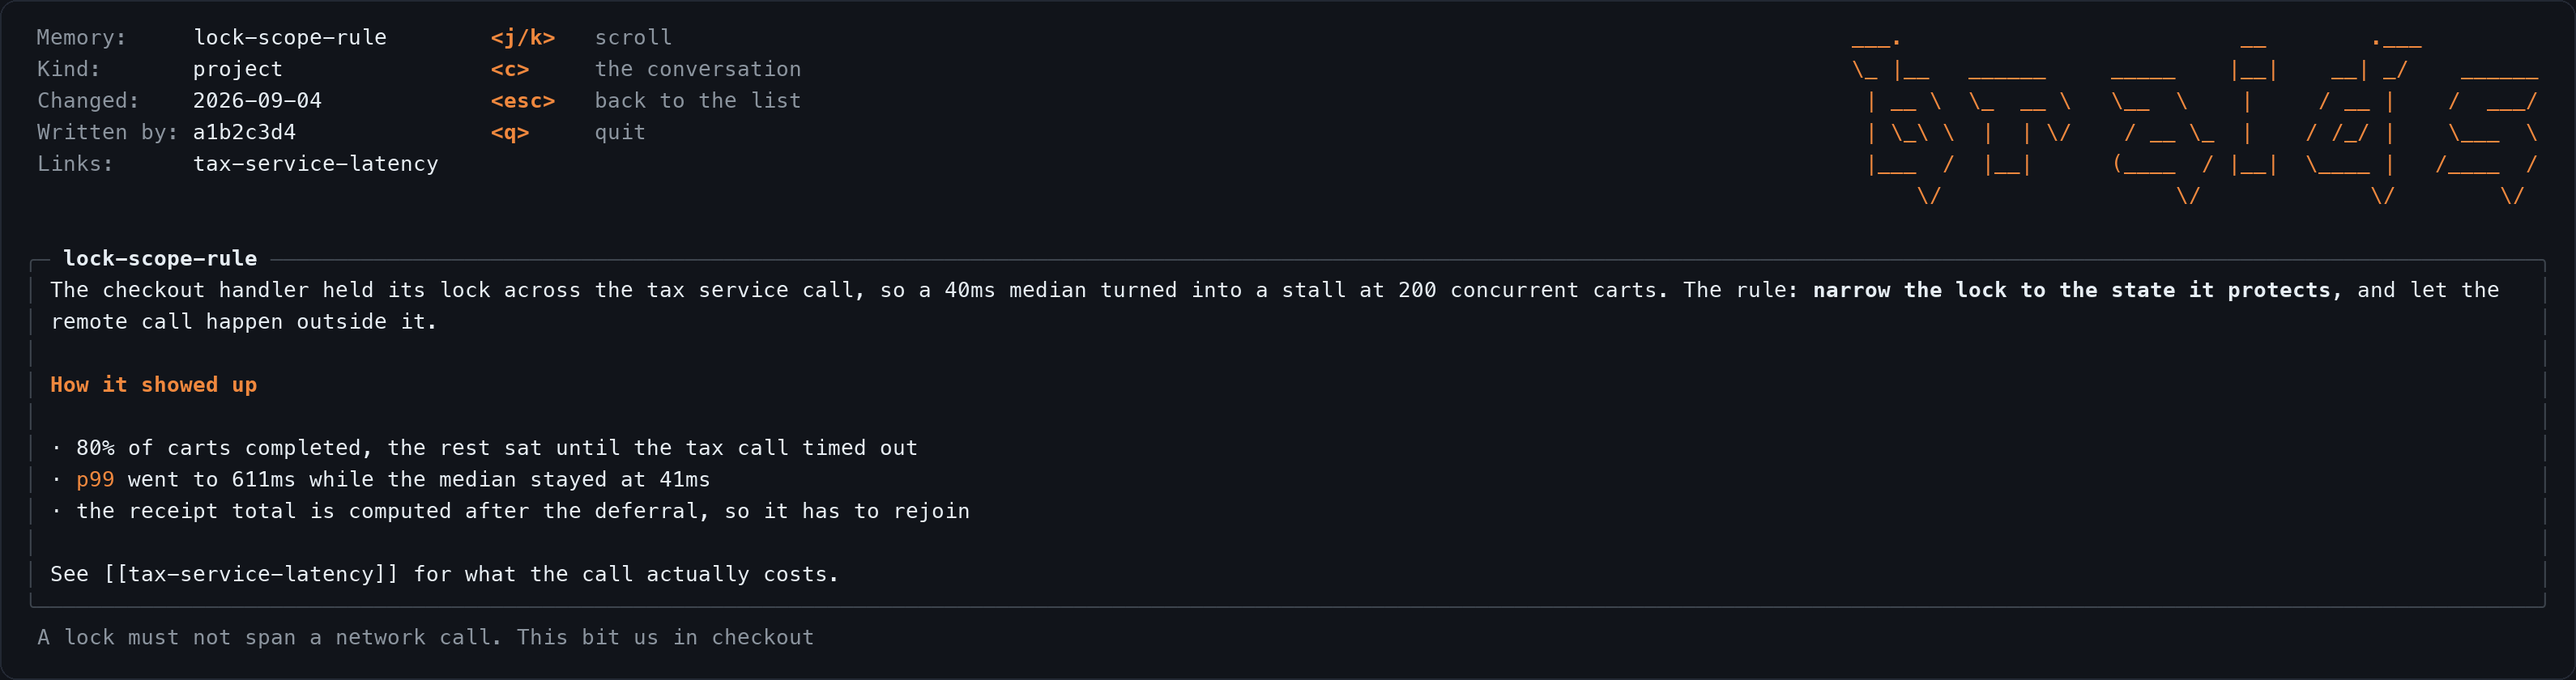
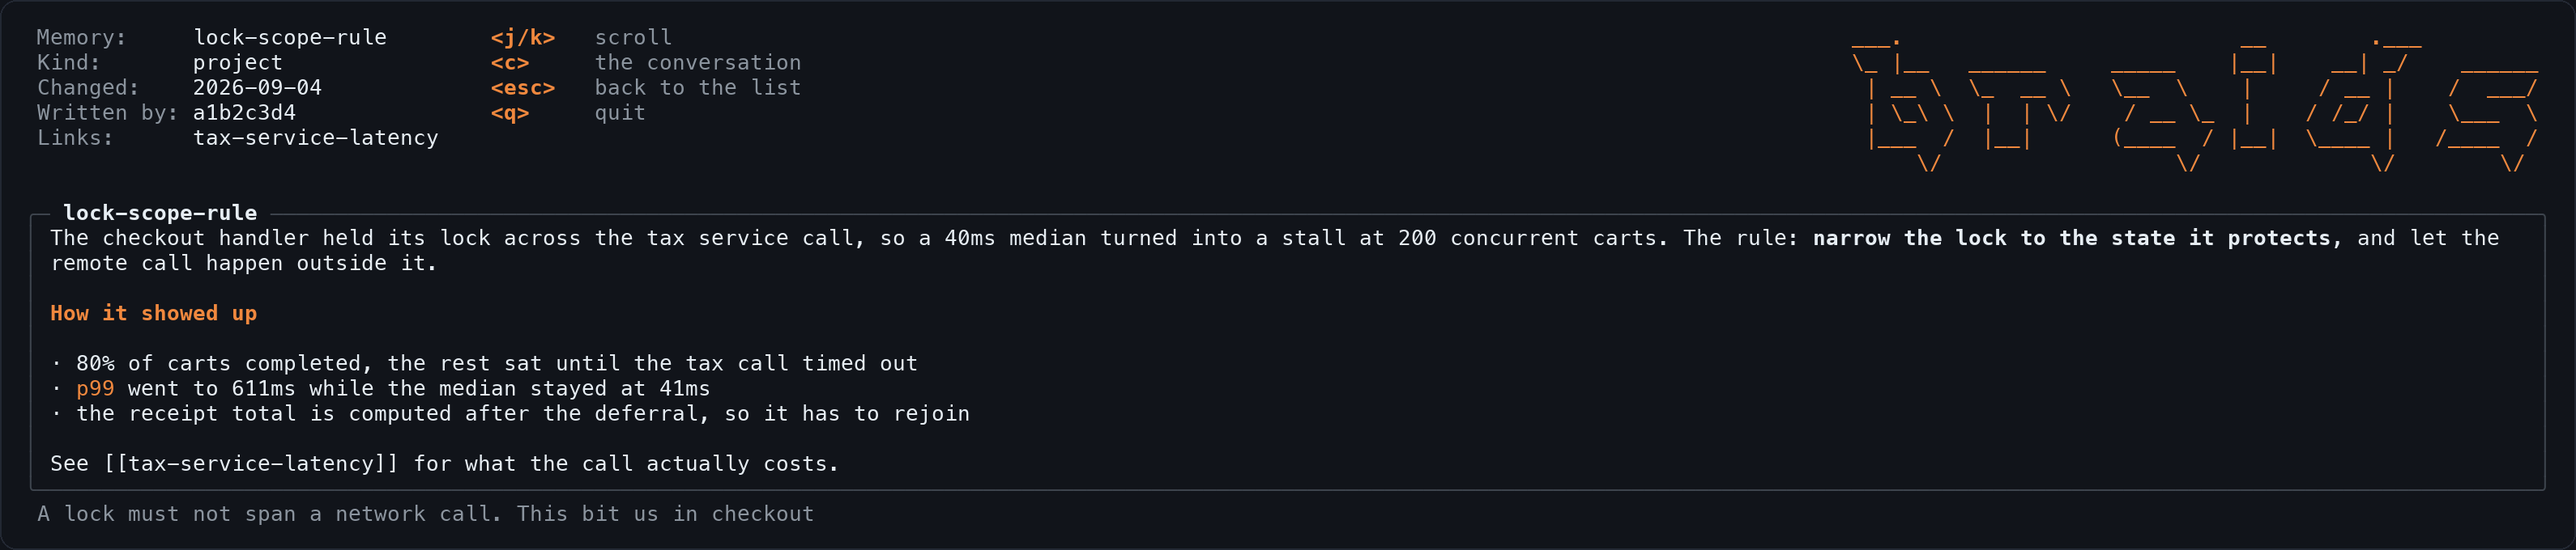
Close the gap between rows, keep frames out of the sidebar, follow the reader
The screens looked misaligned because they were drawn with a line height
of 1.5. A terminal has no leading between rows and braids draws boxes, so
every vertical rule stopped touching the one below it and each panel
border read as a dashed line. The HTML was right all along: 195
characters a line, borders and corners present. Frames are 1.15 now, and
the PNGs 1.18 of the font size, which is where the glyphs meet.

On a docs page the frame broke out to the width of the window, the way it
does on the landing page, and landed on top of the sidebar. Inside the
docs it stays in its column, and the font size now comes from 100cqw,
which is the figure itself rather than the window, so one rule is right
in both layouts. The docs page is wider to give a 195 column frame
somewhere to go, with prose still capped at 72 characters.

The sidebar follows the reader: thirty lines of inline script mark the
heading you are on, because a docs page that fetches a library to
underline a heading is a page that phones home to underline a heading.
The docs home also lists every page now, rather than being a page that
mentions the others in passing.

Repo, while I was in here. Dropped an icon size nothing referenced and an
`open_span` variable that was tracked, never read, and deleted at the end
of the function to keep the linter quiet, plus a `plain` argument no
caller passed. A leftover FRAME_COLS placeholder was still sitting in a
[…]

diff --git a/site/docs.py b/site/docs.py
@@ -24,8 +24,15 @@ OUT = HERE / "docs"
 HOME = "/"
 
 DOCS_CSS = CSS + """
-/* ---- docs layout ---- */
-.docs { display:grid; grid-template-columns:216px minmax(0,1fr); gap:44px; padding:38px 0 72px; }
+/* ---- docs layout ----
+   Wider than the landing page, because a frame is 195 columns and the sidebar
+   takes 224 of the window before the article gets any. */
+.wrap.wide { max-width:1440px; }
+.docs { display:grid; grid-template-columns:224px minmax(0,1fr); gap:48px; padding:38px 0 72px; }
+/* A frame breaks out of the prose column on the landing page. Here that would
+   put it on top of the sidebar, so inside the docs it stays in its column and
+   sizes itself from that instead. */
+.docs figure.frame { width:auto; margin-left:0; transform:none; }
 .side { position:sticky; top:78px; align-self:start; max-height:calc(100vh - 100px); overflow-y:auto; }
 .side h6 {
   margin:0 0 8px; font-family:var(--mono); font-size:11px; font-weight:500;
@@ -39,6 +46,17 @@ DOCS_CSS = CSS + """
 .side .group { margin-bottom:24px; }
 .side .onthis a { font-size:13.5px; color:var(--faint); }
 .side .onthis a:hover { color:var(--ink); }
+.side .onthis a.here { color:var(--accent); border-left-color:var(--accent); }
+
+/* ---- the docs index ---- */
+.cards { display:grid; grid-template-columns:repeat(auto-fit,minmax(240px,1fr)); gap:18px; margin:26px 0 0; }
+.cards a {
+  border:1px solid var(--line); border-radius:11px; padding:16px 18px;
+  background:var(--panel); color:var(--ink);
+}
+.cards a:hover { border-color:var(--faint); text-decoration:none; }
+.cards a b { display:block; font-size:15.5px; margin-bottom:5px; }
+.cards a span { color:var(--dim); font-size:14px; }
 
 article h1 { font-size:clamp(26px,3.4vw,36px); margin:0 0 8px; letter-spacing:-.02em; }
 article > p.lede { font-size:17px; margin:0 0 6px; }
@@ -214,6 +232,10 @@ braids search anything --db /nope/absent.db
   lists every key that screen takes, and the glyph key next to it names every
   mark on the screen.
 </p>
+
+<h2 id="pages">Everything else</h2>
+<p class="sub">Nine more pages, in the order they make sense in.</p>
+{{INDEX_CARDS}}
 
 <h2 id="where">Where things live</h2>
 {table(["Path", "What it is", "Who owns it"], [
@@ -931,6 +953,14 @@ PAGES = [
 HEADING = re.compile(r'<h2 id="([^"]+)">(.*?)</h2>', re.S)
 
 
+def index_cards() -> str:
+    """Every page but the first, as cards on the docs home."""
+    out = ""
+    for slug, label, _, description, _ in PAGES[1:]:
+        out += f'<a href="/docs/{slug}/"><b>{label}</b><span>{description}</span></a>'
+    return f'<div class="cards">{out}</div>'
+
+
 def sidebar(active: str, body: str) -> str:
     """Every page, plus the headings of the one you are on."""
     pages = ""
@@ -960,15 +990,57 @@ def pager(index: int) -> str:
     return f'<div class="pager">{out}</div>' if out else ""
 
 
+# SPY keeps the sidebar in step with the reader. Written out rather than
+# pulled in, because a docs page that fetches a library to underline a heading
+# is a page that phones home to underline a heading.
+SPY = """
+<script>
+(function () {
+  var heads = [].slice.call(document.querySelectorAll('article h2[id]'));
+  var links = {};
+  [].slice.call(document.querySelectorAll('.onthis a')).forEach(function (a) {
+    links[a.getAttribute('href').slice(1)] = a;
+  });
+  if (!heads.length) { return; }
+  var queued = false;
+  function update() {
+    queued = false;
+    // The heading nearest above the top of the window, which is the one you
+    // are reading. The last one wins outright at the bottom of the page,
+    // where nothing new can come into view.
+    var current = heads[0].id;
+    heads.forEach(function (h) {
+      if (h.getBoundingClientRect().top <= 120) { current = h.id; }
+    });
+    if (window.innerHeight + window.scrollY >= document.body.scrollHeight - 4) {
+      current = heads[heads.length - 1].id;
+    }
+    Object.keys(links).forEach(function (id) {
+      links[id].classList.toggle('here', id === current);
+    });
+  }
+  function queue() {
+    if (!queued) { queued = true; requestAnimationFrame(update); }
+  }
+  window.addEventListener('scroll', queue, { passive: true });
+  window.addEventListener('resize', queue);
+  update();
+})();
+</script>
+"""
+
+
 def build() -> None:
     for i, (slug, label, title, description, body) in enumerate(PAGES):
+        body = body.replace("{INDEX_CARDS}", index_cards())
         html_body = (
             nav(HOME, active="/docs/")
-            + '<div class="wrap"><div class="docs">'
+            + '<div class="wrap wide"><div class="docs">'
             + sidebar(slug, body)
             + f"<article>{body}{pager(i)}</article>"
             + "</div></div>"
             + footer(HOME)
+            + SPY
         )
         out = OUT / slug / "index.html" if slug else OUT / "index.html"
         out.parent.mkdir(parents=True, exist_ok=True)

diff --git a/site/chrome.py b/site/chrome.py
@@ -50,10 +50,8 @@ def ansi_to_html(text: str) -> str:
     of leaking escape codes into the page.
     """
     out, style, pos = [], {}, 0
-    open_span = False
 
     def push(chunk: str) -> None:
-        nonlocal open_span
         if not chunk:
             return
         css = ""
@@ -67,7 +65,6 @@ def ansi_to_html(text: str) -> str:
             css += "opacity:.62;"
         if css:
             out.append(f'<span style="{css}">{html.escape(chunk)}</span>')
-            open_span = True
         else:
             out.append(html.escape(chunk))
 
@@ -102,12 +99,10 @@ def ansi_to_html(text: str) -> str:
                     i += 2
             i += 1
     push(text[pos:])
-    del open_span
     return "".join(out)
 
 
-def frame(name: str, caption: str = "", cmd: str = "", then: str = "",
-          plain: bool = False) -> str:
+def frame(name: str, caption: str = "", cmd: str = "", then: str = "") -> str:
     """A verbatim braids screenshot, as produced by scripts/demo.py.
 
     The .ans capture keeps braids' colours; .txt is the same frame with the
@@ -116,7 +111,7 @@ def frame(name: str, caption: str = "", cmd: str = "", then: str = "",
     know and the one thing a screenshot cannot show.
     """
     coloured = FRAMES / f"{name}.ans"
-    if coloured.exists() and not plain:
+    if coloured.exists():
         body = ansi_to_html(coloured.read_text().rstrip("\n"))
     else:
         body = html.escape((FRAMES / f"{name}.txt").read_text().rstrip("\n"))
@@ -336,6 +331,8 @@ p.sub { color:var(--dim); margin-top:0; }
 figure.frame {
   margin:26px 0 0; width:min(1400px, calc(100vw - 40px));
   margin-left:50%; transform:translateX(-50%);
+  /* So the size above is worked out from this box rather than the window. */
+  container-type:inline-size;
 }
 figure.frame .shell {
   background:var(--panel); border:1px solid var(--line); border-radius:11px;
@@ -352,15 +349,21 @@ figure.frame .cmdbar b { color:var(--ink); font-weight:600; }
 figure.frame .cmdbar .then { color:var(--faint); }
 figure.frame .cmdbar kbd { font-size:11px; padding:0 5px; }
 figure.frame pre {
-  font-family:var(--mono); line-height:1.5; margin:0;
+  font-family:var(--mono); margin:0;
   padding:15px 16px; overflow-x:auto; color:var(--ink);
   -webkit-overflow-scrolling:touch;
-  /* A frame is exactly FRAME_COLS columns wide and it has to fit the box, or
-     the panel border falls off the right-hand edge. One column is 0.6em in
-     every face in --mono, so the size is derived from the width the figure
-     actually gets rather than guessed at and then clamped. The divisor carries
-     a little slack for faces that run slightly wider. */
+  /* A terminal has no gap between its rows, and braids draws boxes. At 1.5
+     the vertical rules stop touching and every panel border reads as a dashed
+     line, which is what "the screens look misaligned" turned out to mean. */
+  line-height:1.15;
+  /* A frame is 195 columns and has to fit its box, or the panel border
+     scrolls off the right. One column is 0.6em in every face in --mono, so
+     the size comes from the width the figure actually gets. The first value
+     is the fallback for browsers without container queries; the second is
+     exact, because 100cqw is this figure, which inside the docs layout is not
+     the window. */
   font-size:min(11.5px, calc((min(1400px, 100vw - 40px) - 34px) / 121));
+  font-size:min(11.5px, calc((100cqw - 34px) / 121));
 }
 @media (max-width:700px) {
   /* On a phone 195 columns cannot both fit and be legible. Pick legible and

diff --git a/scripts/ansi2png.py b/scripts/ansi2png.py
@@ -75,7 +75,9 @@ def convert(ans: str) -> Image.Image:
     regular = ImageFont.truetype(FACE, SIZE, index=0)
     bold = ImageFont.truetype(FACE, SIZE, index=1)
     advance = regular.getlength("M")
-    step = round(SIZE * 1.5)
+    # No leading between rows: a terminal has none, and braids draws boxes.
+    # Any gap turns every vertical rule into a dashed line.
+    step = round(SIZE * 1.18)
 
     cols = max((len(SGR.sub("", line)) for line in lines), default=0)
     width = round(cols * advance + 2 * PAD)

diff --git a/site/build.py b/site/build.py
@@ -6,7 +6,7 @@ fake ~/.claude, then pasted in verbatim. A hand-drawn mockup drifts from the
 program the moment either changes, and a frame whose borders do not line up is
 the first thing a reader notices.
 
-    python3 scripts/demo.py --out /tmp/braids-demo --frames site/frames --width 88
+    make frames   # recapture every screen, then redraw the README PNGs
     python3 site/build.py
 """
 

diff --git a/CONTRIBUTING.md b/CONTRIBUTING.md
@@ -7,7 +7,7 @@ a change merged is to know which of those two you are up against.
 
 ```sh
 git clone https://github.com/Ashes47/braids && cd braids
-make ci        # fmt, vet, lint, test, race, cover — the same gate CI runs
+make ci        # fmt, vet, lint, test, race, cover: the same gate CI runs
 make run       # build and open the map against your own ~/.claude
 ```
 
@@ -19,7 +19,7 @@ is green, your push is green.
 
 Some of these look like missing features and are decisions. Please read them
 before proposing one of them, and please do argue if you think a decision is
-wrong — with a case, not a patch.
+wrong, with a case rather than a patch.
 
 - **braids never talks to a model.** It arranges the conversations you have
   with a harness. No proxying, no wrapping, no protocol of its own.
@@ -30,7 +30,7 @@ wrong — with a case, not a patch.
   harness already wrote. Delete braids and you lose a view, never a
   conversation.
 - **One writer per file, always.** braids writes its own files. Where it edits
-  a harness file — the memory index — it does so atomically, keeps the mode it
+  a harness file, the memory index, it does so atomically, keeps the mode it
   found, and refuses while a session in that project is running.
 - **Deletion is recoverable.** Everything braids deletes goes to a bin with a
   manifest and a retention window.
@@ -64,6 +64,8 @@ internal/core/memory  reading and curating what a project remembers
 internal/core/…       artifacts, hooks, trash, sidecar, watch
 internal/tui          the screens
 internal/brand        the ASCII mark, so the CLI and the TUI agree on it
+scripts/              the tooling: the demo corpus, the screenshots, the PNGs
+site/                 braids.chat and its docs, generated from the frames
 ```
 
 `internal/core` knows nothing about the terminal, and nothing in `core` imports
@@ -71,12 +73,44 @@ internal/brand        the ASCII mark, so the CLI and the TUI agree on it
 with optional capability interfaces, so one that cannot branch still gets the
 map and search.
 
+## Screenshots and the site
+
+Every screenshot in the README and on braids.chat is real braids output. None
+of it is drawn by hand, because a hand-drawn frame drifts from the program the
+moment either changes, and a box whose borders do not line up is the first
+thing a reader notices.
+
+```sh
+make frames   # rebuild the captures and the PNGs (needs the binary)
+make pages    # regenerate the landing page and the docs from those captures
+make site     # both, then serve it on http://localhost:8787
+```
+
+`scripts/demo.py` writes a fake `~/.claude` under `/tmp`, indexes it, and
+captures each screen at 195 columns, which is the width where the header draws
+the facts, the glyph key, every binding and the full mark. It never reads your
+own transcripts. Frames land in `site/frames` as `.ans`, which keeps braids'
+colours, and `.txt`, which is the same frame with the escapes removed so a diff
+is readable.
+
+The map, a spine and search come from `braids --print`. The other screens are
+reached with keys, and braids does not have a flag for them, so
+`scripts/shots` presses the keys instead: it drives the same router and the
+same `View` the running program does. It is a tool, not part of the binary.
+
+`scripts/ansi2png.py` redraws a capture as a PNG for the README, because
+GitHub strips `style` attributes and will not render either ANSI or CSS.
+
+Nothing generated is committed twice: `site/index.html`, `site/docs/` and
+`site/assets/` are all built, and the Pages workflow builds them before it
+deploys.
+
 ## Adding a harness
 
 Implement `store.Source`, plus whichever of `Enricher`, `Sidechains`,
 `Brancher`, `Promoter`, `Merger`, `Tailer`, `Measurer` and `Rememberer` you can
 honestly support. braids hides what a source cannot do rather than showing a
-key that fails. Start by reading `internal/core/store/claudecode` — every
+key that fails. Start by reading `internal/core/store/claudecode`, where every
 awkward thing in it is commented with the observation that forced it.
 
 ## Reporting a bug

diff --git a/README.md b/README.md
@@ -130,7 +130,9 @@ of its own and carry on from where it left off.
 against 363 MB here, with nine files holding 1.3 GB of it. `w` opens it as a
 size browser: heaviest first, directories weighed by what is under them, `↵` to
 descend. So you can bin one 231 MB dump and keep the rest. `↵` on a file shows
-its head, `y` copies its path, and a binary is named rather than spewed. The harness's own
+its head, `y` copies its path, and a binary is named rather than spewed.
+
+<img src="assets/frames/file.png" alt="braids: peeking at the head of a file a session wrote" width="100%"> The harness's own
 record of a job is shown and refused. `braids work --orphans` finds the sets
 whose conversation is gone.
 
@@ -139,7 +141,9 @@ whose conversation is gone.
 **Memories.** What a project has told the harness to remember, with the two
 things you cannot see from inside a session: a memory the index omits, which is
 therefore loaded by nothing, and a link pointing at a memory that is gone. `↵`
-reads it as markdown, `c` opens the conversation that wrote it. `d` deletes one
+reads it as markdown, `c` opens the conversation that wrote it.
+
+<img src="assets/frames/memory.png" alt="braids: reading a memory with its markdown rendered" width="100%"> `d` deletes one
 to the bin, `r` renames it and follows the name through every link, and `i`
 repairs the index. Each of them changes the index in the same breath as the
 file, and is refused while a session in that project is running.

diff --git a/SECURITY.md b/SECURITY.md
@@ -23,7 +23,7 @@ about what it does with them.
 
 ## Reporting a vulnerability
 
-Open a GitHub issue for anything that is not exploitable — a wrong permission,
+Open a GitHub issue for anything that is not exploitable: a wrong permission,
 a path that is not validated, a claim above that turns out to be false.
 
 For anything exploitable, email the address on the commits in `git log` rather
@@ -37,7 +37,7 @@ against and does not claim to.
 
 ## Things worth knowing
 
-**`BRAIDS_SPAWN` runs through a shell.** That is the point of it — a template
+**`BRAIDS_SPAWN` runs through a shell.** That is the point of it, since a template
 is only useful if it can use shell syntax. Every value braids substitutes into
 it is shell-quoted first, because a conversation's title and directory are data
 read out of a transcript and a conversation called `x; rm -rf ~ #` must be a

diff --git a/assets/README.md b/assets/README.md
@@ -1,0 +1,13 @@
+# Assets
+
+| File | Used by |
+| --- | --- |
+| `braids-logo.png` | the README's header and the site's hero |
+| `braids-icon-512.png` | the source the smaller icons are cut from, and the repo's social preview |
+| `braids-icon-256.png` | `og:image`, so a link to braids.chat has a picture |
+| `braids-icon-64.png` | the favicon and the site's nav |
+| `frames/*.png` | the README's screenshots |
+
+`frames/` is generated. `make frames` recaptures every screen against a fake
+`~/.claude` and redraws these from the captures, so they cannot drift from what
+braids actually prints. Nothing here is drawn by hand except the mark itself.
